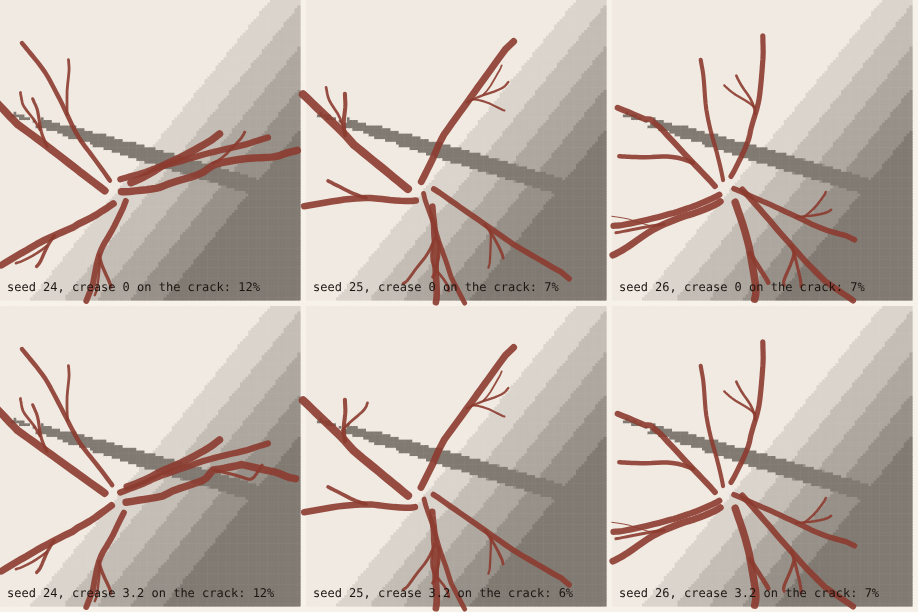
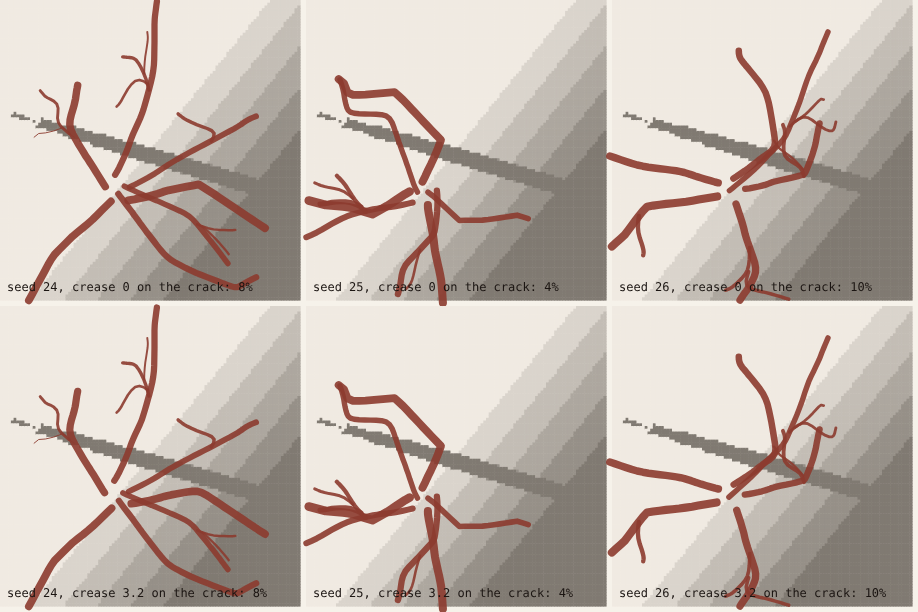
Roots articulate: a hand taken at each knuckle, kept into a curl or changed into a zigzag
Claude-Session: https://claude.ai/code/session_0192rgp75jGkttZXf7hEakip

diff --git a/trees.js b/trees.js
@@ -30,7 +30,7 @@
   function frames(P) { let N = null; return P.map((p, i) => { const T = unit([0, 1, 2].map((k) => P[Math.min(P.length - 1, i + 1)][k] - P[Math.max(0, i - 1)][k])); N = unit((N || [1, 0, 0.2]).map((v, k, A) => v - T[k] * dot(A, T))); return [T, N, cross(T, N)]; }); }
 
   function grow(recipe) {
-    const P = Object.assign({ strands: 8, fill: 0.75, uneven: 0.5, twist: 0.5, taut: 0.3, stiff: 0.05, hug: 0.15, bind: 0.004, roots: 0.6, wind: 1.1, mixed: false, lmax: 0, set: 0, swell: 1, feet: 0, lap: 0, ground: null, down: 0.6, crease: 3.2, seam: 0.55, seams: 7, hem: 2.2, leg: 0.16, knuckle: 0.55, bridge: 2.2, toe: 0.13, tip: 0.26, snake: 1, air: 0.18, reach: 0.6, eyes: 0.4, hang: 0.3, bold: 0.35, brace: 0.12, bite: 1.8, forks: 1, dive: 0.12, slant: 0.75, clumps: 3, cling: 0.88, grip: 0.5, collar: 2, flare: 0.07, waste: 0.25, clear: 1, settle: 0, giving: 0.75, passes: 1500, ds: 0.035, seed: 1, trunk: [[0, 0.14, 0, 0.27], [0, 1.6, 0, 0.1]], limbs: [], orb: null }, recipe);
+    const P = Object.assign({ strands: 8, fill: 0.75, uneven: 0.5, twist: 0.5, taut: 0.3, stiff: 0.05, hug: 0.15, bind: 0.004, roots: 0.6, wind: 1.1, mixed: false, lmax: 0, set: 0, swell: 1, feet: 0, lap: 0, ground: null, down: 0.6, crease: 3.2, seam: 0.55, seams: 7, hem: 2.2, leg: 0.16, knuckle: 0.55, weave: 1, bridge: 2.2, toe: 0.13, tip: 0.26, snake: 1, air: 0.18, reach: 0.6, eyes: 0.4, hang: 0.3, bold: 0.35, brace: 0.12, bite: 1.8, forks: 1, dive: 0.12, slant: 0.75, clumps: 3, cling: 0.88, grip: 0.5, collar: 2, flare: 0.07, waste: 0.25, clear: 1, settle: 0, giving: 0.75, passes: 1500, ds: 0.035, seed: 1, trunk: [[0, 0.14, 0, 0.27], [0, 1.6, 0, 0.1]], limbs: [], orb: null }, recipe);
     // The ground, if the tree is given one: any function of a place that is how far it is outside the ground (less than
     // nothing inside). Without one the ground is the level at height 0, as it always was. (A grown tree is always given one, level if nothing else, so that its roots are walked.)
     const G = P.ground, gradG = G ? (x, y, z) => { const e = 0.008; return unit([G(x + e, y, z) - G(x - e, y, z), G(x, y + e, z) - G(x, y - e, z), G(x, y, z + e) - G(x, y, z - e)]); } : null, rootPts = [];
@@ -94,6 +94,17 @@
       // corners. The line is as long as the root is thick -- a heavy one holds it a long way, a slight one turns
       // often -- and only at the corner does it look around and take the best way it can see, from a wide fan.
       // A curve is what a tentacle does. A corner is what something that is bracing itself does.
+      // How freely a root articulates at its knuckles. Not a kind of root but a degree, drawn for each: a slight
+      // root articulates more than a heavy one, which holds its line. At a knuckle it swings to one hand; whether
+      // it keeps that hand or changes it is the root's own habit, so one zigzags, the next carries on round into
+      // a curl, and most do some of both. Turning more often is not the way to get this: corners every other
+      // step average back into the very curve the corners were for.
+      const weave = Math.min(1.4, P.weave * (1.4 - 0.9 * heavy) * (0.35 + 1.3 * rw()));
+      const hold = 0.2 + 0.65 * rw();
+      let swing = rw() < 0.5 ? 1 : -1;
+      // and it is longer for the same reach: what it spends going sideways it would otherwise have spent going
+      // out, so a winding root given the length of a straight one never gets anywhere.
+      len *= 1 + 0.12 * weave;
       let legLeft = 0, legHug = 0.4 + 0.3 * Math.sin(wob), since = 9;
       // Where it corners it makes a knuckle: the wood piles up at the bend and presses into the ground there.
       // That is where a root is holding on, and it is what the corner is for.
@@ -147,9 +158,10 @@
         if (!turning) { legLeft--; since++; h = tt; } else {
         for (const a of [-1.3, -0.8, -0.45, -0.18, 0, 0.18, 0.45, 0.8, 1.3]) { const c = tt.map((v, k) => v * Math.cos(a) + side[k] * Math.sin(a)), pr = pos.map((v, k) => v + c[k] * 0.07);
           const lie = 1 - Math.abs(gradG(pr[0], pr[1], pr[2])[1]);
-          const score = (hemDir ? P.hem * brink * dot(c, hemDir) : 0) + (1 - onFace) * (1 - 0.5 * brink) * (0.7 * dot(c, out) + P.down * dot(c, dn)) + onFace * 3.2 * dot(c, grip) - bold * (1 - P.hang) * 2.2 * lie * lie * (1 - onFace) + (seamWay ? P.crease * seamAmt * dot(c, seamWay) : 0) + 2.4 * room(pr, rx.length - 12) / 0.22 + (Math.abs(a) < 0.2 ? 0.3 : 0) - 0.22 * Math.abs(a) + P.snake * 0.3 * r(); if (!best || score > best.score) best = { score, c, a }; }
+          const score = (hemDir ? P.hem * brink * dot(c, hemDir) : 0) + (1 - onFace) * (1 - 0.5 * brink) * (0.7 * dot(c, out) + P.down * dot(c, dn)) + onFace * 3.2 * dot(c, grip) - bold * (1 - P.hang) * 2.2 * lie * lie * (1 - onFace) + (seamWay ? P.crease * seamAmt * dot(c, seamWay) : 0) + 2.4 * room(pr, rx.length - 12) / 0.22 + (Math.abs(a) < 0.2 ? 0.3 * Math.max(0, 1 - weave) : 0) - 0.22 * Math.max(0.15, 1 - 0.8 * weave) * Math.abs(a) + weave * P.snake * (0.35 + 1.25 * r()) * swing * Math.sin(a) + P.snake * 0.3 * r(); if (!best || score > best.score) best = { score, c, a }; }
           h = best.c;
-          legLeft = Math.max(2, Math.round((onFace > 0.5 ? P.brace * (0.6 + 0.9 * r()) : P.leg * (0.75 + 1.1 * heavy) * (0.6 + 0.8 * r())) / ds));
+          if (r() > hold) swing = -swing;
+          legLeft = Math.max(2, Math.round((onFace > 0.5 ? P.brace * (0.6 + 0.9 * r()) : P.leg * (0.75 + 1.1 * heavy) * (1 + 0.35 * Math.min(1, weave)) * (0.6 + 0.8 * r())) / ds));
           legHug = 0.4 + 0.3 * Math.sin(wob + TAU * gone / wl);
           if (rx.length) corners.push([rx.length, Math.min(1, Math.abs(best.a) / 0.75)]);
           since = 0; }

diff --git a/LOG.md b/LOG.md
@@ -3833,3 +3833,59 @@ having. The girth was never in the knuckles.
 
       page 9's lines, from here   b1cb17889f 0736abf4f0 89ee38b16e 561483e938 b15cb8ba77
       page 7's four, unchanged    e387ada36c 17dc01b122 a61f129179 b2eac9db5f
+
+## Roots articulate: a hand taken at each knuckle, kept or changed
+
+"It really has to snake", and then: "it doesn't just have to be zigzag,
+they can also curl, let the roots articulate freely."
+
+The first attempt was a zigzag and only a zigzag: a root that alternates
+hand at every knuckle, with shorter runs between them. Twice wrong.
+Shorter runs are the old trap -- corners every other step average back
+into the curve the corners were for -- and strict alternation is a
+sawtooth, which is one shape, not freedom.
+
+What is there now is a degree and a habit, both drawn for each root.
+
+- **How freely it articulates** is a number, not a kind: a slight root
+  articulates more than a heavy one, which holds its line. It changes what
+  the root is willing to pay for a turn (the straight-ahead bonus goes, the
+  penalty on a big angle nearly goes) and adds a push toward the hand it
+  has taken.
+- **Its habit** is whether it keeps that hand at the next knuckle or
+  changes it. Kept, successive turns carry it round into a curl or a hook;
+  changed, it zigzags. Most roots do some of both, and the habit is the
+  root's own, so one tree has both kinds in it.
+- And how far it swings is not the same twice: some knuckles are nearly
+  straight, some are hairpins.
+
+A root that articulates takes **longer** runs between its knuckles, not
+shorter: fewer, harder turns. With shorter ones the curls came out smooth
+and the thing was a tentacle again, which is what the whole of the last two
+rounds was about. The rule that keeps it stiff is the same rule that lets
+it wind: a held line and a hard corner.
+
+It is also given a little more length (12%) for the same reach, since what
+it spends going sideways it would otherwise spend going out. That was 50%
+at first, which simply made more wood: the trees grew a third more root
+and most of the gain was in the thin ends.
+
+      roots crossing a ring, at most   0.32 of the trunk's section
+
+Measured and discarded on the way: the share of root length thinner than a
+wire. It came out at 45-60% and barely moved whatever I did, because what
+it was counting was slight roots, which are meant to be slight. A rule to
+end a root when it had "run out of substance" was written against that
+number and then removed: it fired in the last 1% of a root and did nothing.
+Two rounds running, a number has sent me after the wrong thing.
+
+Wrong, or not there:
+- A curl is a curl in plan. Nothing lifts off the ground and comes back
+  down in the middle of a run, which is what a root does when it crosses
+  another one.
+- The habit is fixed for the whole length of a root. A real one wanders
+  loosely where there is nothing in its way and turns hard where there is;
+  the ground decides nothing about how much it articulates.
+
+      page 9's lines, from here   2ecabc8f7b 9b5ddcdc69 b9c92f8e4f a540462735 46492b392d
+      page 7's four, unchanged    e387ada36c 17dc01b122 a61f129179 b2eac9db5f
